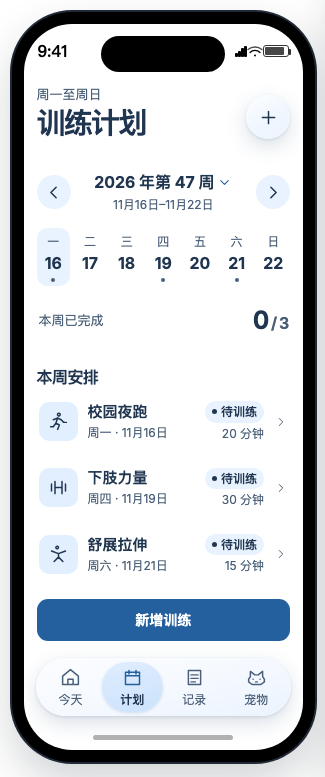
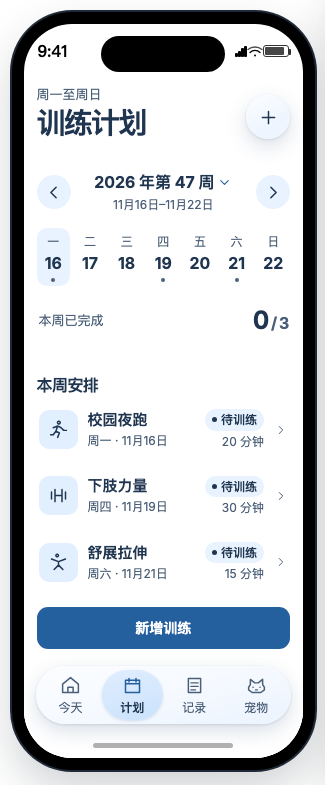
Use consistent spacing between prototype sections

diff --git a/design-demos/ios-prototype.html b/design-demos/ios-prototype.html
@@ -402,6 +402,7 @@ a { color: inherit; }
   --focus: #386cab;
   --activity: #e2efff;
   --empty-heart: #839ab5;
+  --section-gap: 29px;
   --glass-tint: #f2f8ffcc;
   --glass-shadow: 0 7px 20px #2045702c, 0 1px 3px #21456924;
   --glass-ease: cubic-bezier(.2, .75, .25, 1);
@@ -416,8 +417,8 @@ a { color: inherit; }
 [data-glass] :is(.habitat, .today-task, .week-card, .primary, .secondary, .day, .toast) { border: 0; }
 [data-glass] :is(.board-header, .board-footer p, .week-total, .list-row, .sheet dl div, .choice) { border-block: 0; }
 [data-glass] :is(.today-task, .week-card) { padding-inline: 0; }
-[data-glass] .following { margin-block-start: 29px; }
-[data-glass] .week-card { margin-bottom: 21px; }
+[data-glass] .following { margin-block-start: var(--section-gap); }
+[data-glass] .week-card { margin-block-end: var(--section-gap); }
 [data-glass] .week-days { gap: 3px; margin-block: 12px 8px; }
 [data-glass] .week-total { padding-top: 11px; }
 [data-glass] .plan-list { margin-bottom: 12px; }
@@ -712,7 +713,7 @@ a { color: inherit; }
 
 .heatmap {
   --heat-size: 14px;
-  margin-bottom: 14px;
+  margin-block-end: var(--section-gap);
   padding: 10px 0 6px;
   border-radius: var(--r);
   background: var(--layer);
@@ -771,7 +772,7 @@ button.heat-cell:focus-visible { outline: 2px solid var(--accent); outline-offse
 .heat-legend i { --heat-size: 10px; }
 
 @media (min-width: 731px) {
-  [data-glass] .device[data-phone="week"] .ios-screen { height: 726px !important; }
+  [data-glass] .device[data-phone="week"] .ios-screen { height: 734px !important; }
 }
 
 @media (max-width: 730px) {

diff --git a/design-demos/src/glass.css b/design-demos/src/glass.css
@@ -18,6 +18,7 @@
   --focus: #386cab;
   --activity: #e2efff;
   --empty-heart: #839ab5;
+  --section-gap: 29px;
   --glass-tint: #f2f8ffcc;
   --glass-shadow: 0 7px 20px #2045702c, 0 1px 3px #21456924;
   --glass-ease: cubic-bezier(.2, .75, .25, 1);
@@ -32,8 +33,8 @@
 [data-glass] :is(.habitat, .today-task, .week-card, .primary, .secondary, .day, .toast) { border: 0; }
 [data-glass] :is(.board-header, .board-footer p, .week-total, .list-row, .sheet dl div, .choice) { border-block: 0; }
 [data-glass] :is(.today-task, .week-card) { padding-inline: 0; }
-[data-glass] .following { margin-block-start: 29px; }
-[data-glass] .week-card { margin-bottom: 21px; }
+[data-glass] .following { margin-block-start: var(--section-gap); }
+[data-glass] .week-card { margin-block-end: var(--section-gap); }
 [data-glass] .week-days { gap: 3px; margin-block: 12px 8px; }
 [data-glass] .week-total { padding-top: 11px; }
 [data-glass] .plan-list { margin-bottom: 12px; }
@@ -328,7 +329,7 @@
 
 .heatmap {
   --heat-size: 14px;
-  margin-bottom: 14px;
+  margin-block-end: var(--section-gap);
   padding: 10px 0 6px;
   border-radius: var(--r);
   background: var(--layer);
@@ -387,7 +388,7 @@ button.heat-cell:focus-visible { outline: 2px solid var(--accent); outline-offse
 .heat-legend i { --heat-size: 10px; }
 
 @media (min-width: 731px) {
-  [data-glass] .device[data-phone="week"] .ios-screen { height: 726px !important; }
+  [data-glass] .device[data-phone="week"] .ios-screen { height: 734px !important; }
 }
 
 @media (max-width: 730px) {
